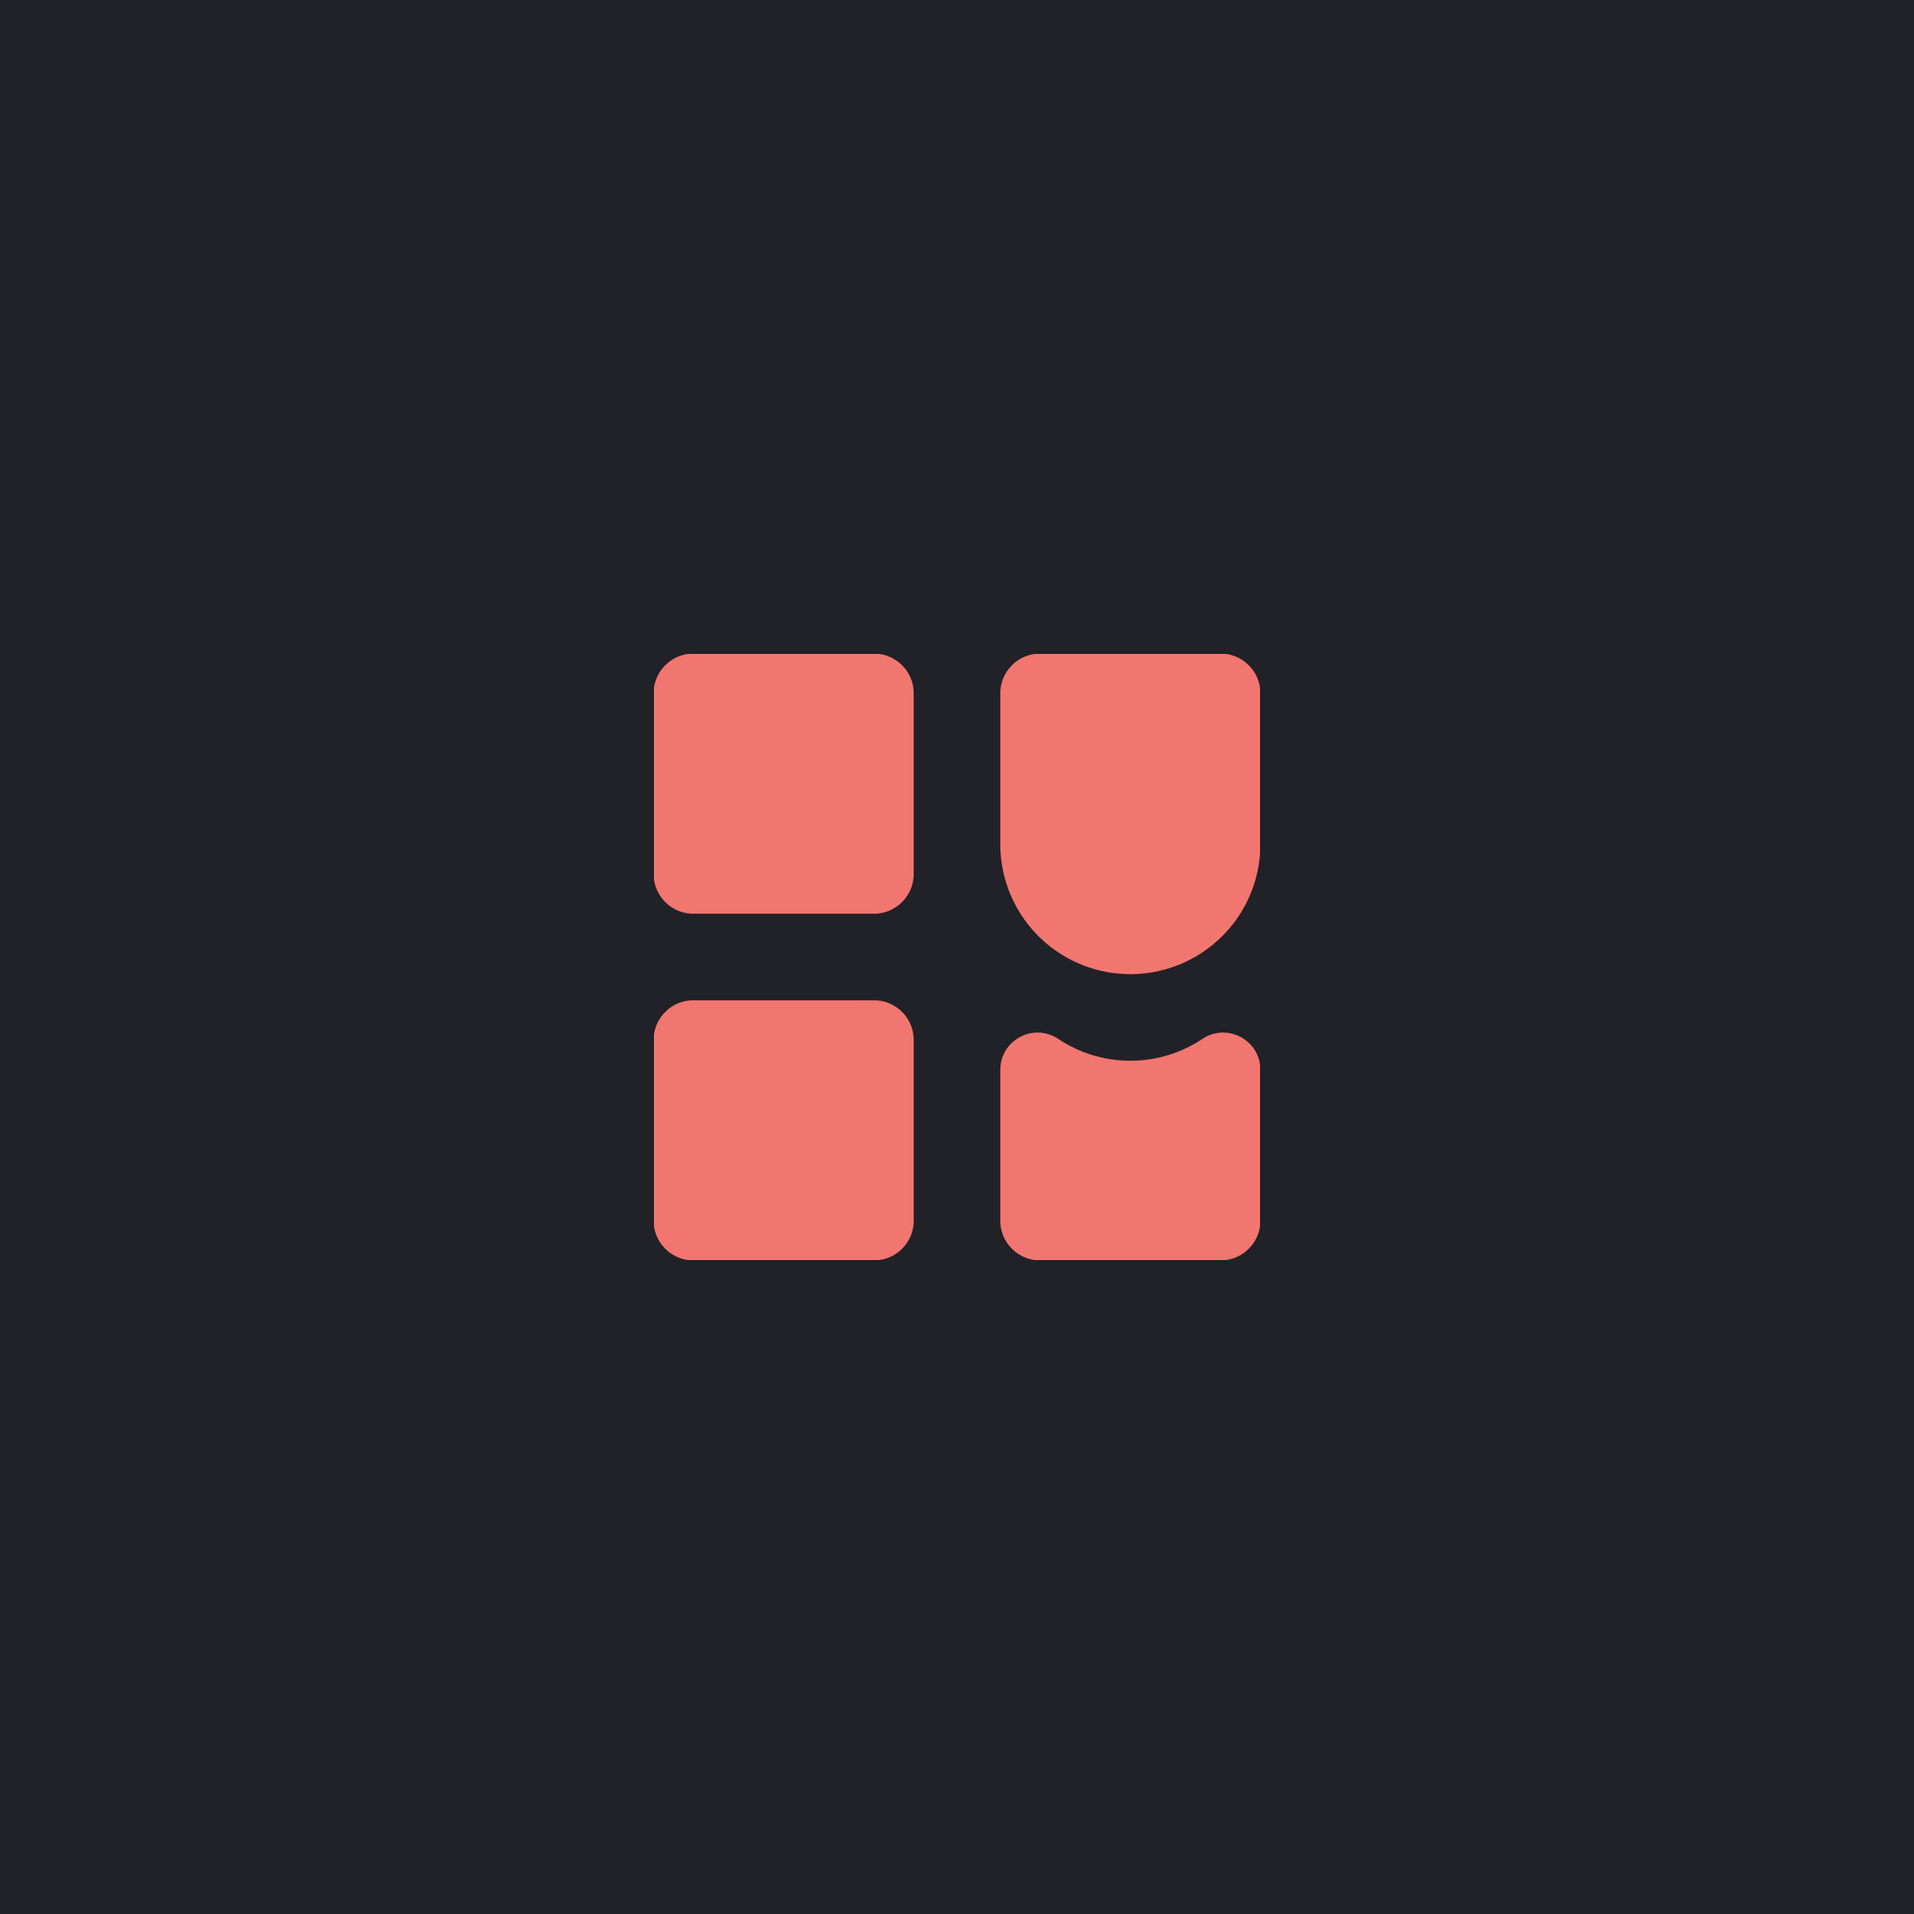
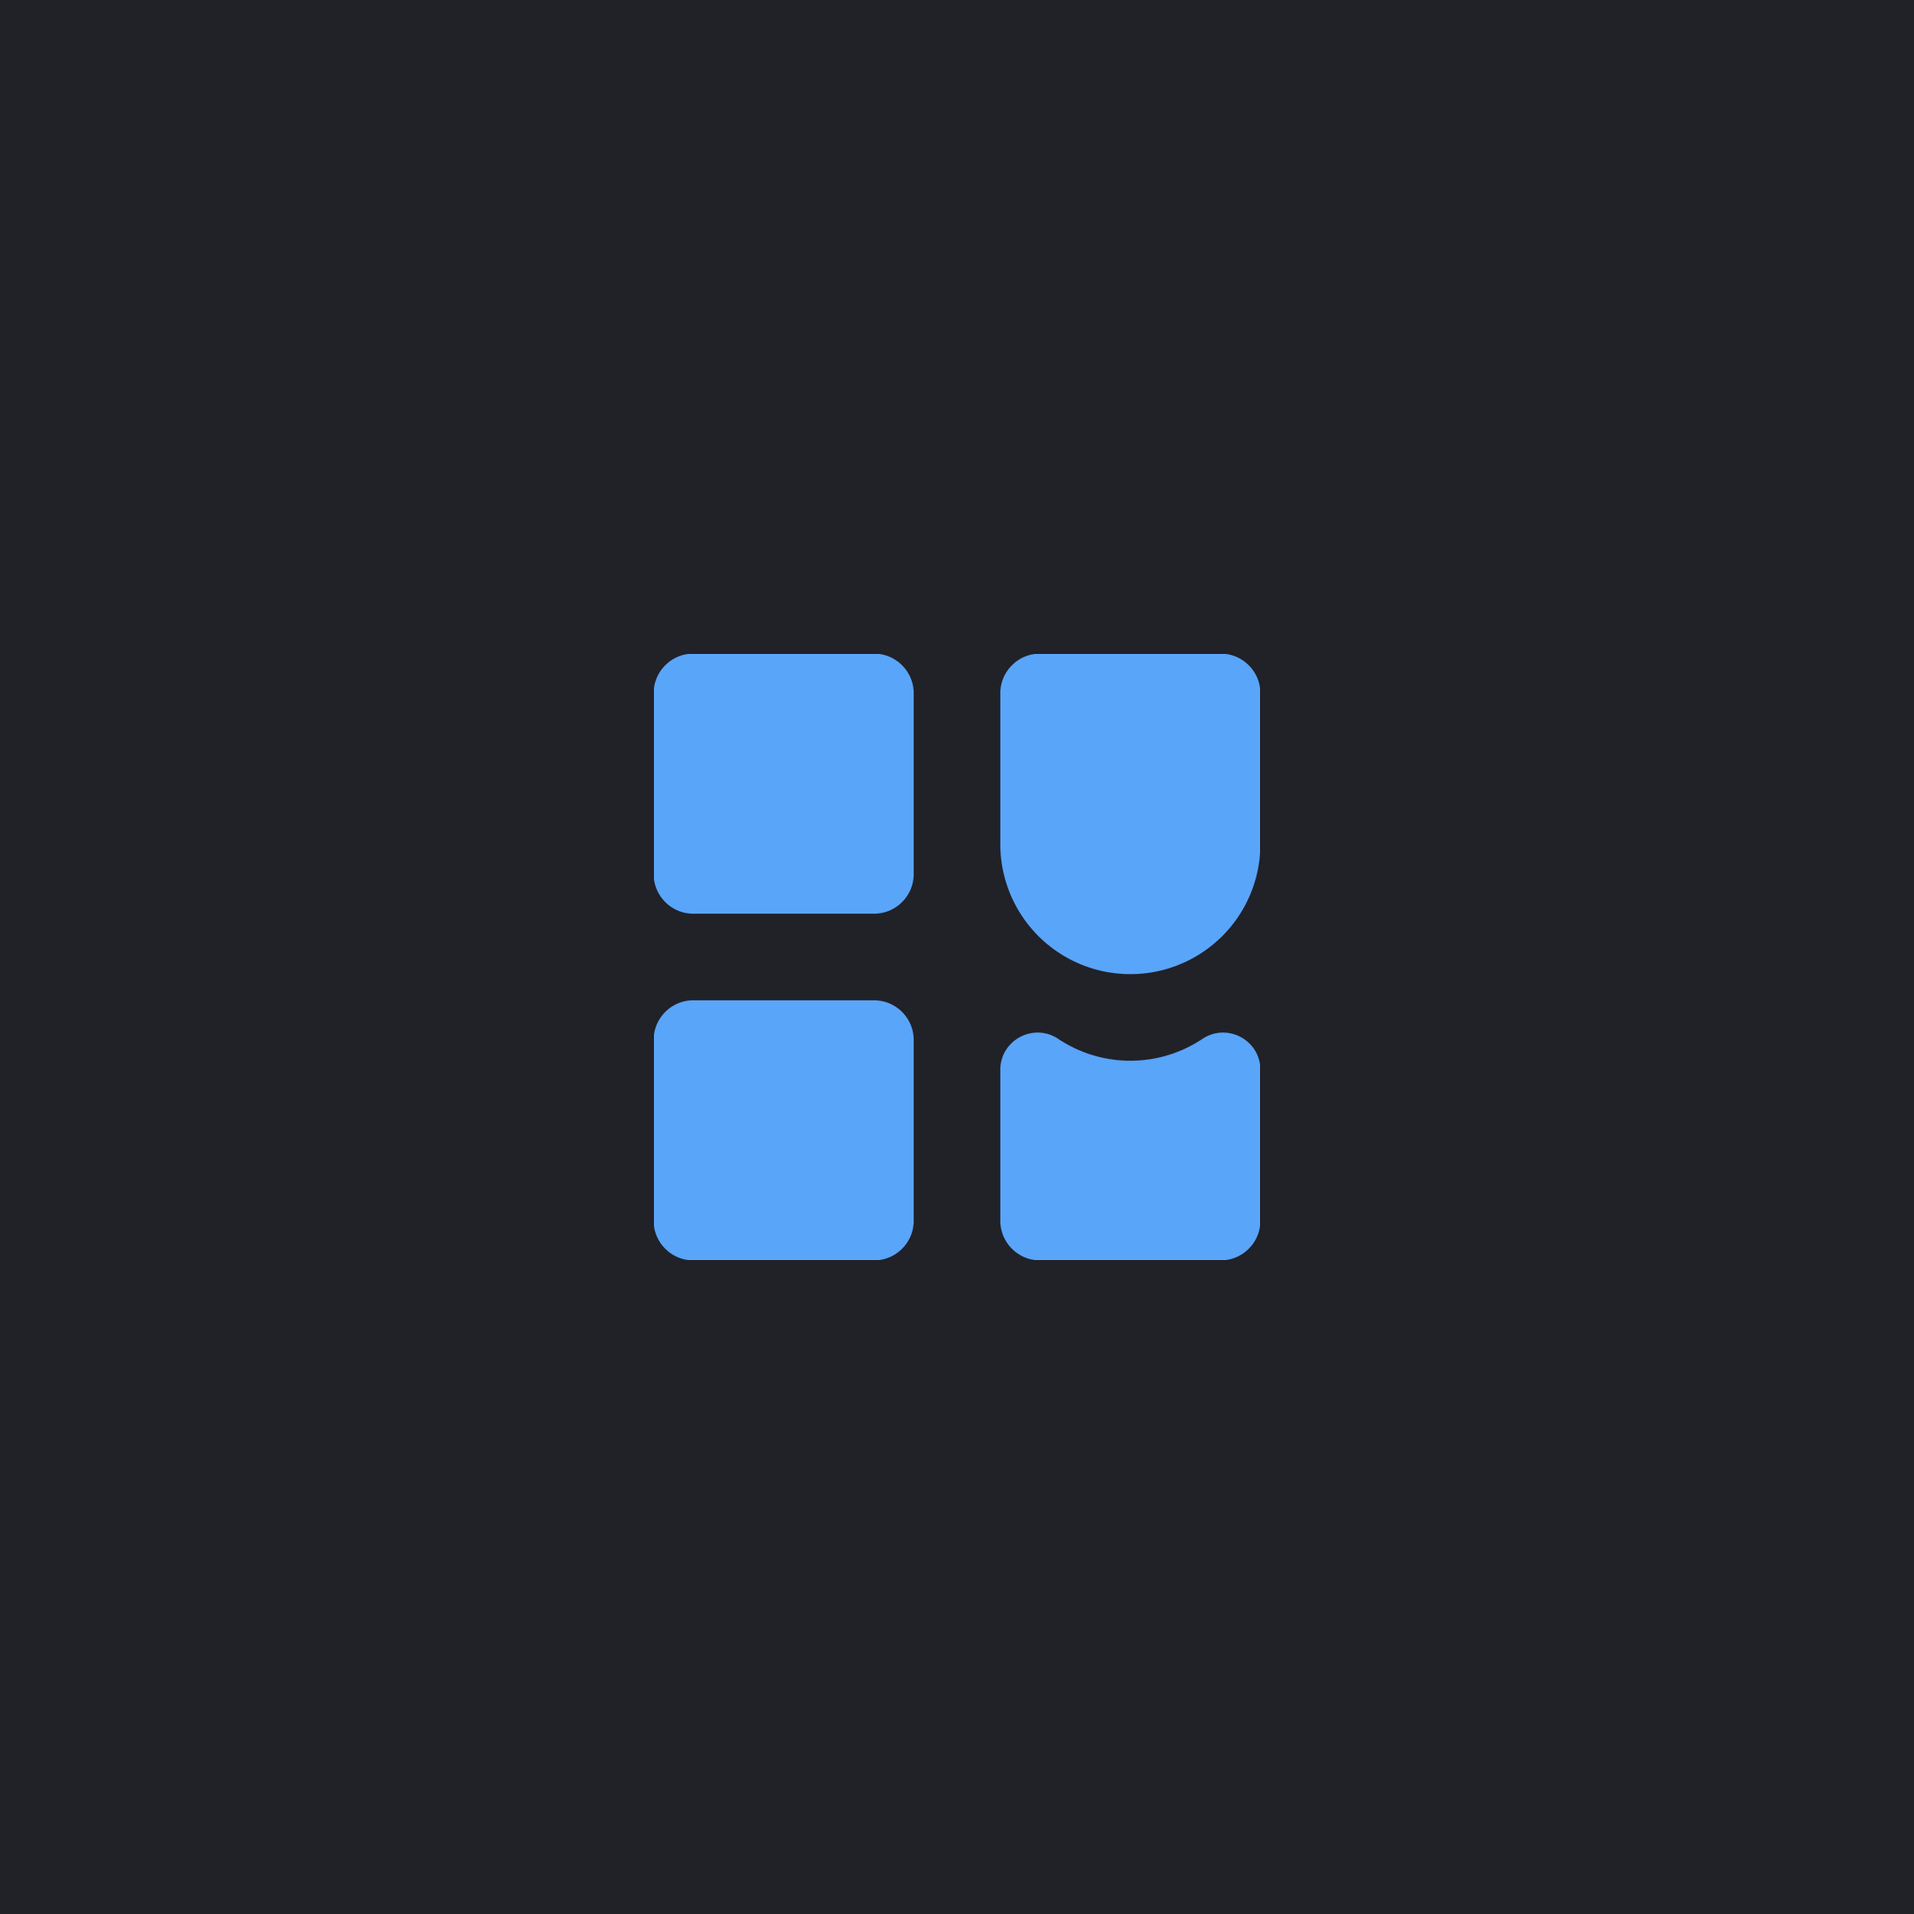
upd

Changed region(s): [[0.3412, 0.3412, 0.6824, 0.6824]]

diff --git a/style.css b/style.css
@@ -2,8 +2,8 @@
 @import url("https://fonts.googleapis.com/css?family=Noto+Sans+KR:100,300,400,500,700,900&display=swap");
 
 :root {
-  --cl-prim: #f27670;
-  --cl-dimmed: rgba(242, 118, 112, 0.3);
+  --cl-prim: #59a5fa;
+  --cl-dimmed: rgba(89, 165, 250, 0.3);
   --cl-black: #212128;
 }
 
@@ -90,7 +90,7 @@ html {
 
 .hiu.section.first {
   padding: 0 64px;
-  background-image: linear-gradient(-120deg, #292226, var(--cl-black));;
+  background-color: var(--cl-black);
 }
 
 .hiu.section.first .page-title {
